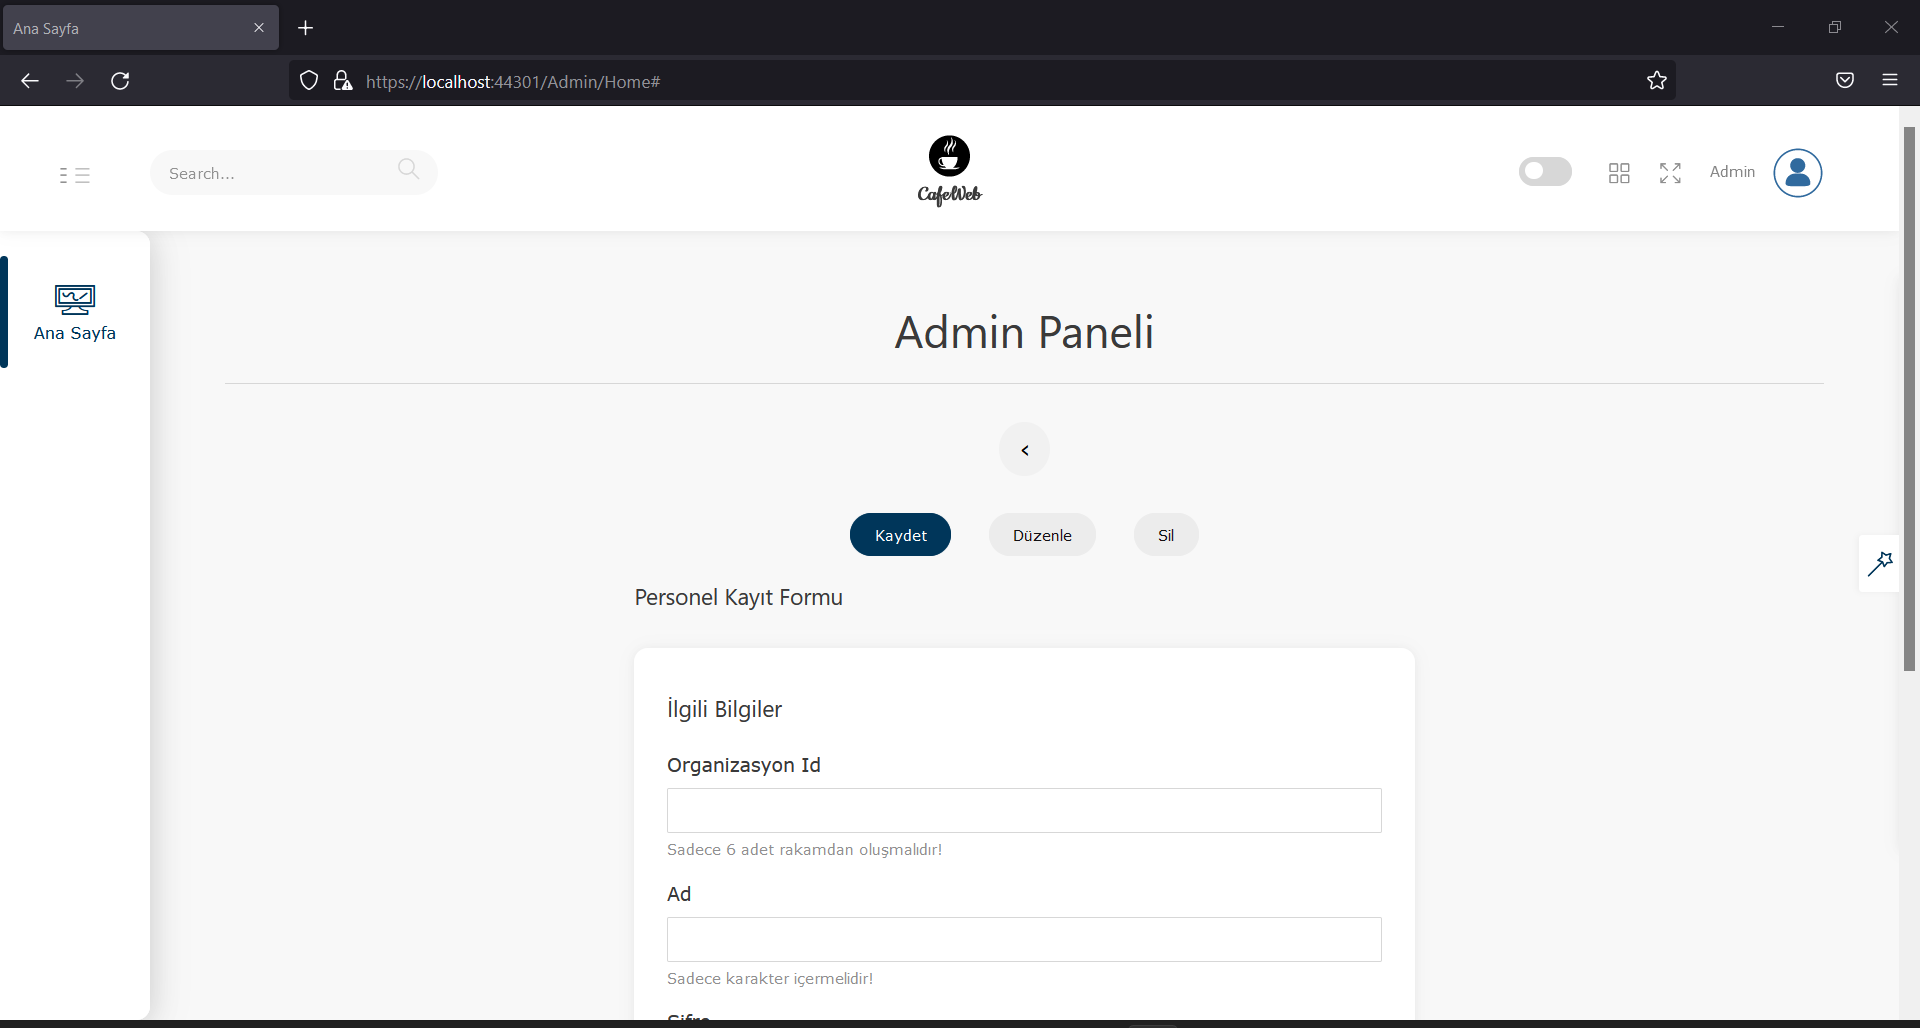
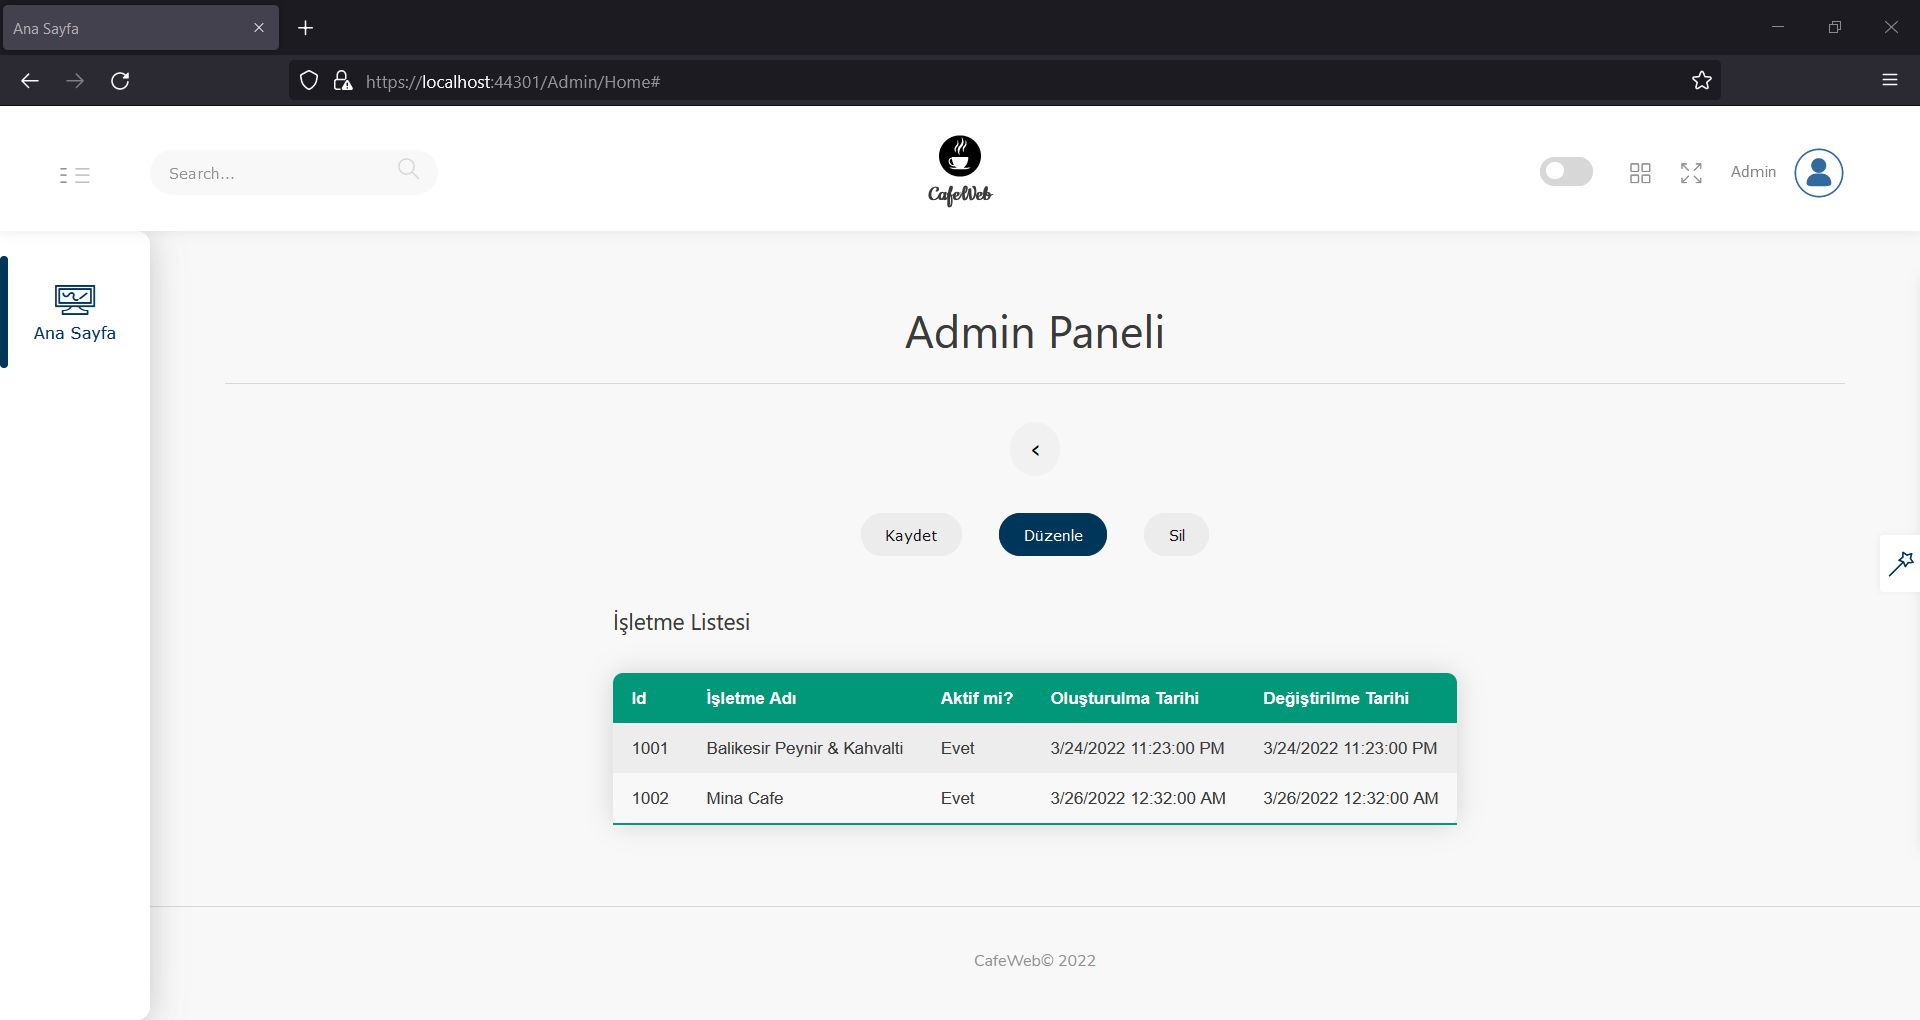
Düzenle alanında veri listelenmesi

diff --git a/CafeWeb/Users/assets/css/main.css b/CafeWeb/Users/assets/css/main.css
@@ -43,3 +43,43 @@ body.show-spinner::after {
     -webkit-transform: rotate(360deg);
   }
 }
+
+.styled-table {
+    border-collapse: collapse;
+    margin: 25px 0;
+    font-size: 0.9em;
+    font-family: sans-serif;
+    min-width: 400px;
+    box-shadow: 0 0 20px rgba(0, 0, 0, 0.15);
+    overflow: hidden;
+    border: none;
+    border-width: 0px;
+    -moz-border-radius: 8px;
+    -webkit-border-radius: 8px;
+    border-radius: 8px;
+}
+
+.styled-table tbody tr th {
+    background-color: #009879;
+    color: #ffffff;
+    text-align: left;
+}
+
+.styled-table th,
+.styled-table td {
+    padding: 12px 15px;
+}
+
+.styled-table tbody tr:nth-of-type(even) {
+    background-color: #ededed;
+}
+
+.styled-table tbody tr:last-of-type {
+    border-bottom: 2px solid #009879;
+}
+
+.styled-table tbody tr.active-row {
+    font-weight: bold;
+    color: #009879;
+}
+

diff --git a/CafeWeb/Users/Admin/Home.aspx.cs b/CafeWeb/Users/Admin/Home.aspx.cs
@@ -2,6 +2,8 @@
 using System.Web;
 using WebClasses;
 using Database;
+using System.Linq;
+using System.Web.UI.WebControls;
 
 namespace CafeWebAdmin
 {
@@ -31,6 +33,48 @@ namespace CafeWebAdmin
         protected void SaveOrg_ServerClick(object sender, EventArgs e)
         {
             ApplicationDBContext.SetOrg(orgName.Value.ToString(), isActive.Checked); ;
+        }
+
+        // The return type can be changed to IEnumerable, however to support
+        // paging and sorting, the following parameters must be added:
+        //     int maximumRows
+        //     int startRowIndex
+        //     out int totalRowCount
+        //     string sortByExpression
+        public IQueryable<Database.Org> OrgView_GetData()
+        {
+            return ApplicationDBContext.ListOrgs().AsQueryable();
+        }
+
+        // The return type can be changed to IEnumerable, however to support
+        // paging and sorting, the following parameters must be added:
+        //     int maximumRows
+        //     int startRowIndex
+        //     out int totalRowCount
+        //     string sortByExpression
+        public IQueryable<Database.User> UserView_GetData()
+        {
+            return ApplicationDBContext.ListUsers().AsQueryable();
+        }
+
+        protected void OrgView_RowDataBound(object sender, GridViewRowEventArgs e)
+        {
+            foreach (TableCell tc in e.Row.Cells)
+            {
+                tc.BorderStyle = BorderStyle.None;
+                tc.BorderWidth = 0;
+                tc.BorderColor = System.Drawing.Color.Transparent;
+            }
+        }
+
+        protected void UserView_RowDataBound(object sender, GridViewRowEventArgs e)
+        {
+            foreach (TableCell tc in e.Row.Cells)
+            {
+                tc.BorderStyle = BorderStyle.None;
+                tc.BorderWidth = 0;
+                tc.BorderColor = System.Drawing.Color.Transparent;
+            }
         }
 
         protected void ControlData()

diff --git a/Database/ApplicationDBContext.cs b/Database/ApplicationDBContext.cs
@@ -51,5 +51,39 @@ namespace Database
                 }
             }
         }
+
+        public static List<Database.Org> ListOrgs()
+        {
+            using (CafeDataBaseEntities db = new CafeDataBaseEntities())
+            {
+                var obj = db.Orgs.Where(a => a.Id > 1000);
+                
+                var orgList = obj.ToList();
+
+                if (orgList == null)
+                {
+                    return null;
+                }
+
+                return orgList;
+            }
+        }
+
+        public static List<Database.User> ListUsers()
+        {
+            using (CafeDataBaseEntities db = new CafeDataBaseEntities())
+            {
+                var obj = db.Users.Where(a => a.Auth > 1);
+
+                var orgList = obj.ToList();
+
+                if (orgList == null)
+                {
+                    return null;
+                }
+
+                return orgList;
+            }
+        }
     }
 }

diff --git a/CafeWeb/Users/Admin/Home.aspx.designer.cs b/CafeWeb/Users/Admin/Home.aspx.designer.cs
@@ -58,5 +58,23 @@ namespace CafeWebAdmin
         /// To modify move field declaration from designer file to code-behind file.
         /// </remarks>
         protected global::System.Web.UI.HtmlControls.HtmlButton SaveOrg;
+
+        /// <summary>
+        /// OrgView control.
+        /// </summary>
+        /// <remarks>
+        /// Auto-generated field.
+        /// To modify move field declaration from designer file to code-behind file.
+        /// </remarks>
+        protected global::System.Web.UI.WebControls.GridView OrgView;
+
+        /// <summary>
+        /// UserView control.
+        /// </summary>
+        /// <remarks>
+        /// Auto-generated field.
+        /// To modify move field declaration from designer file to code-behind file.
+        /// </remarks>
+        protected global::System.Web.UI.WebControls.GridView UserView;
     }
 }
